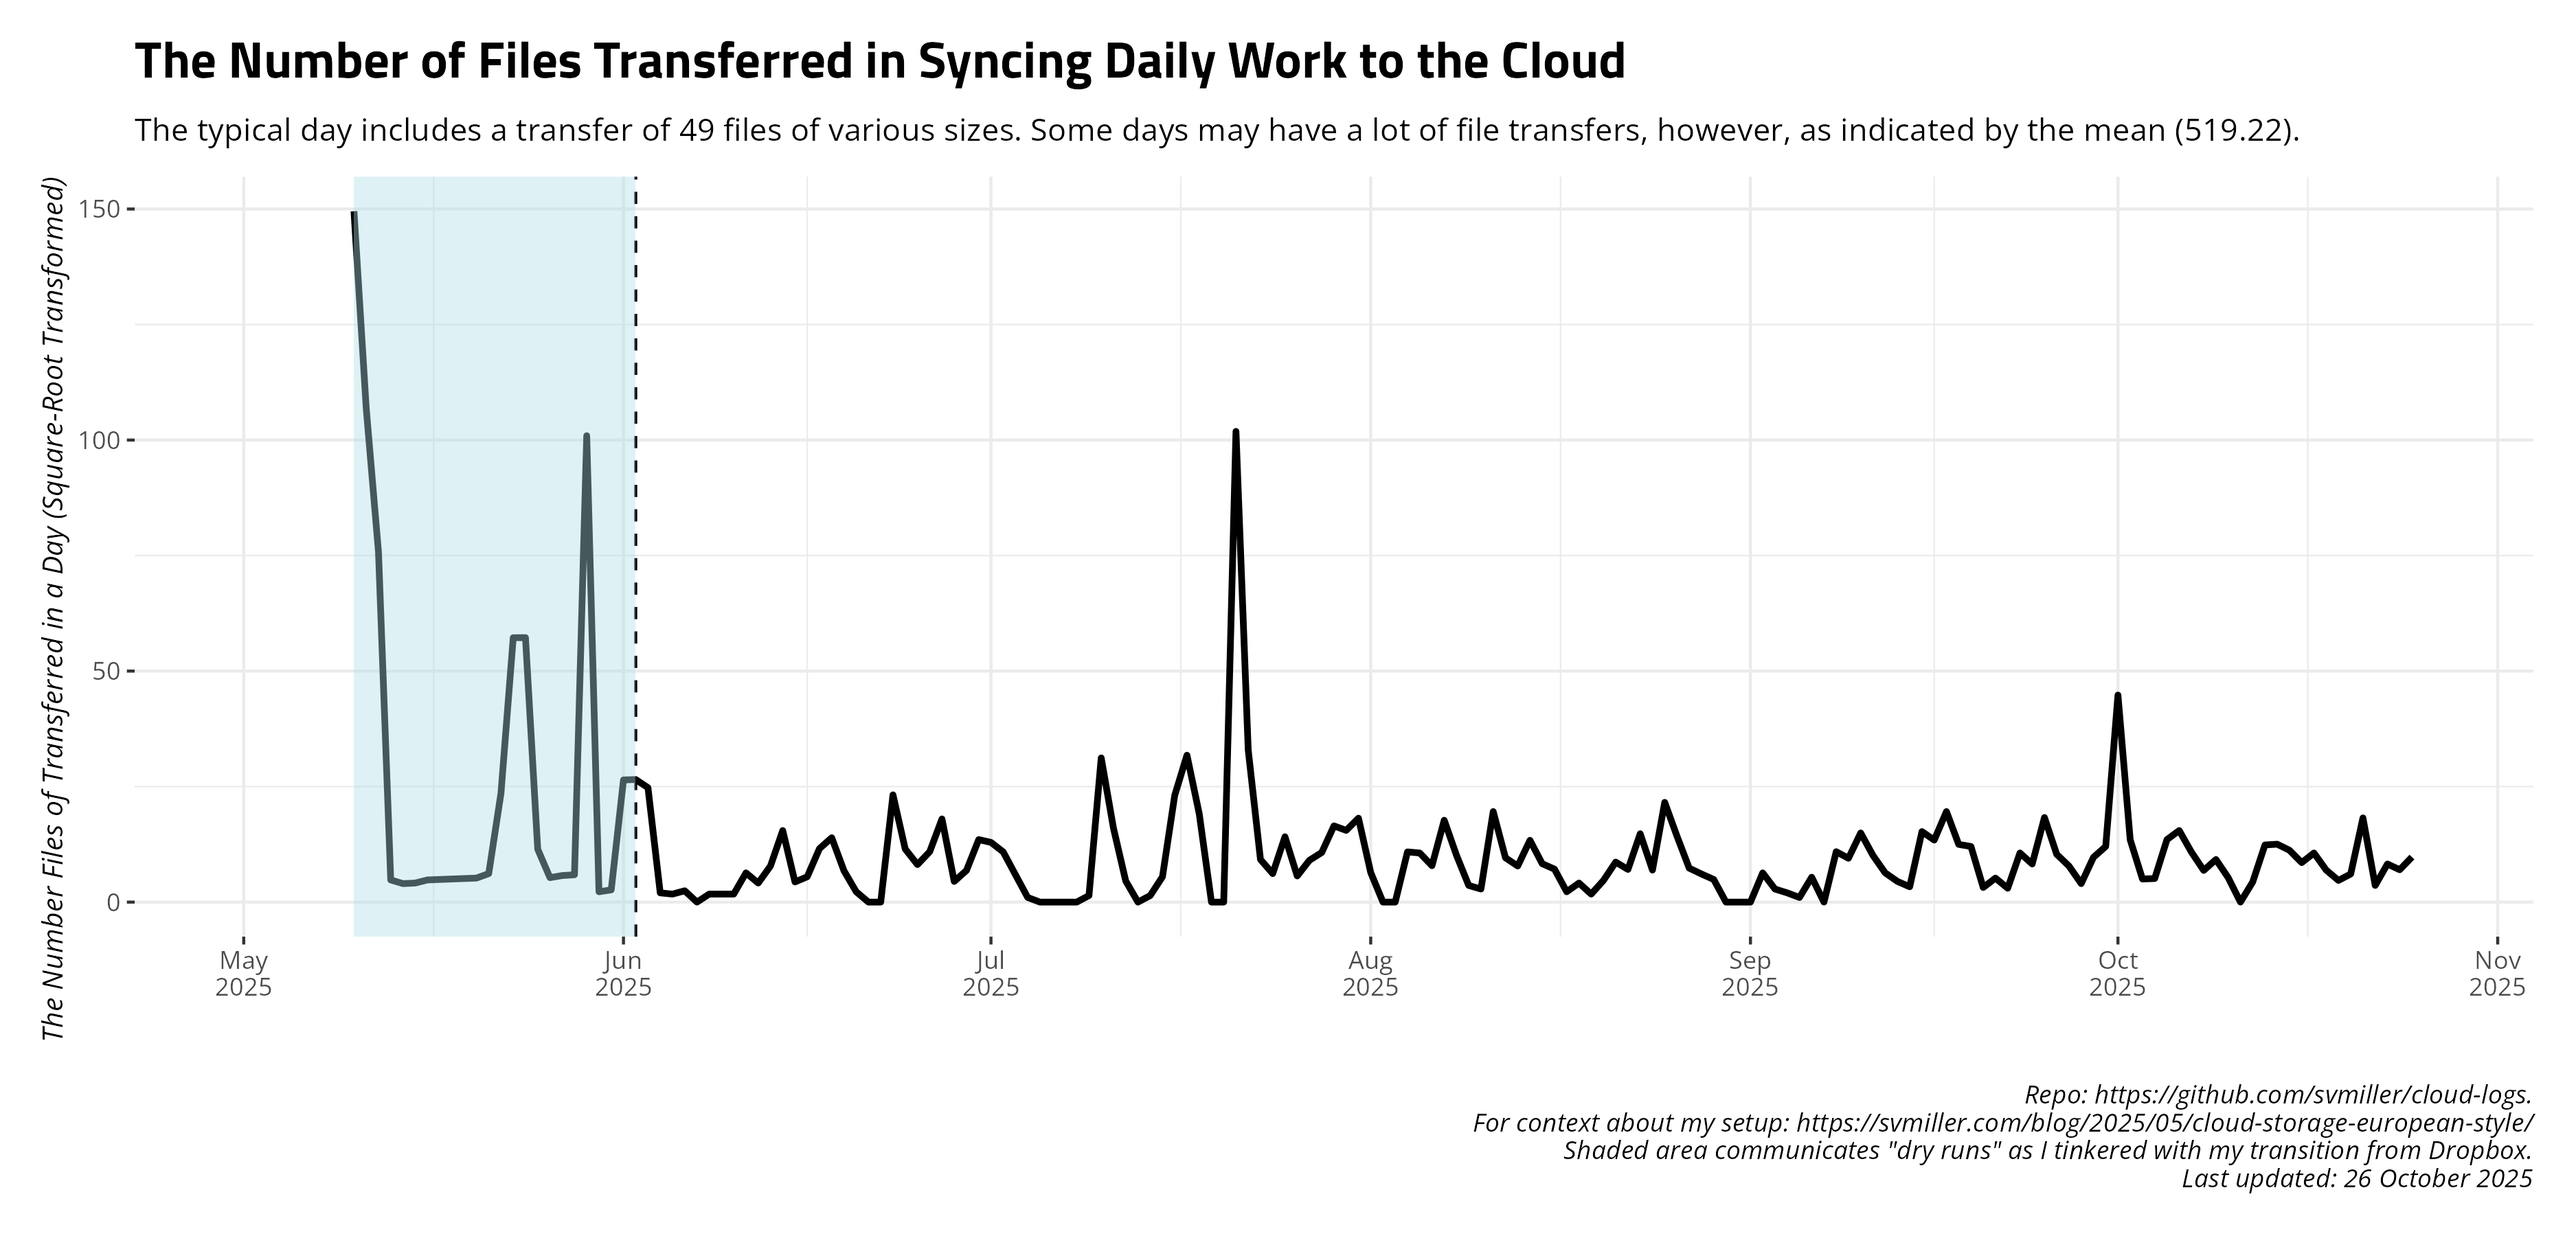
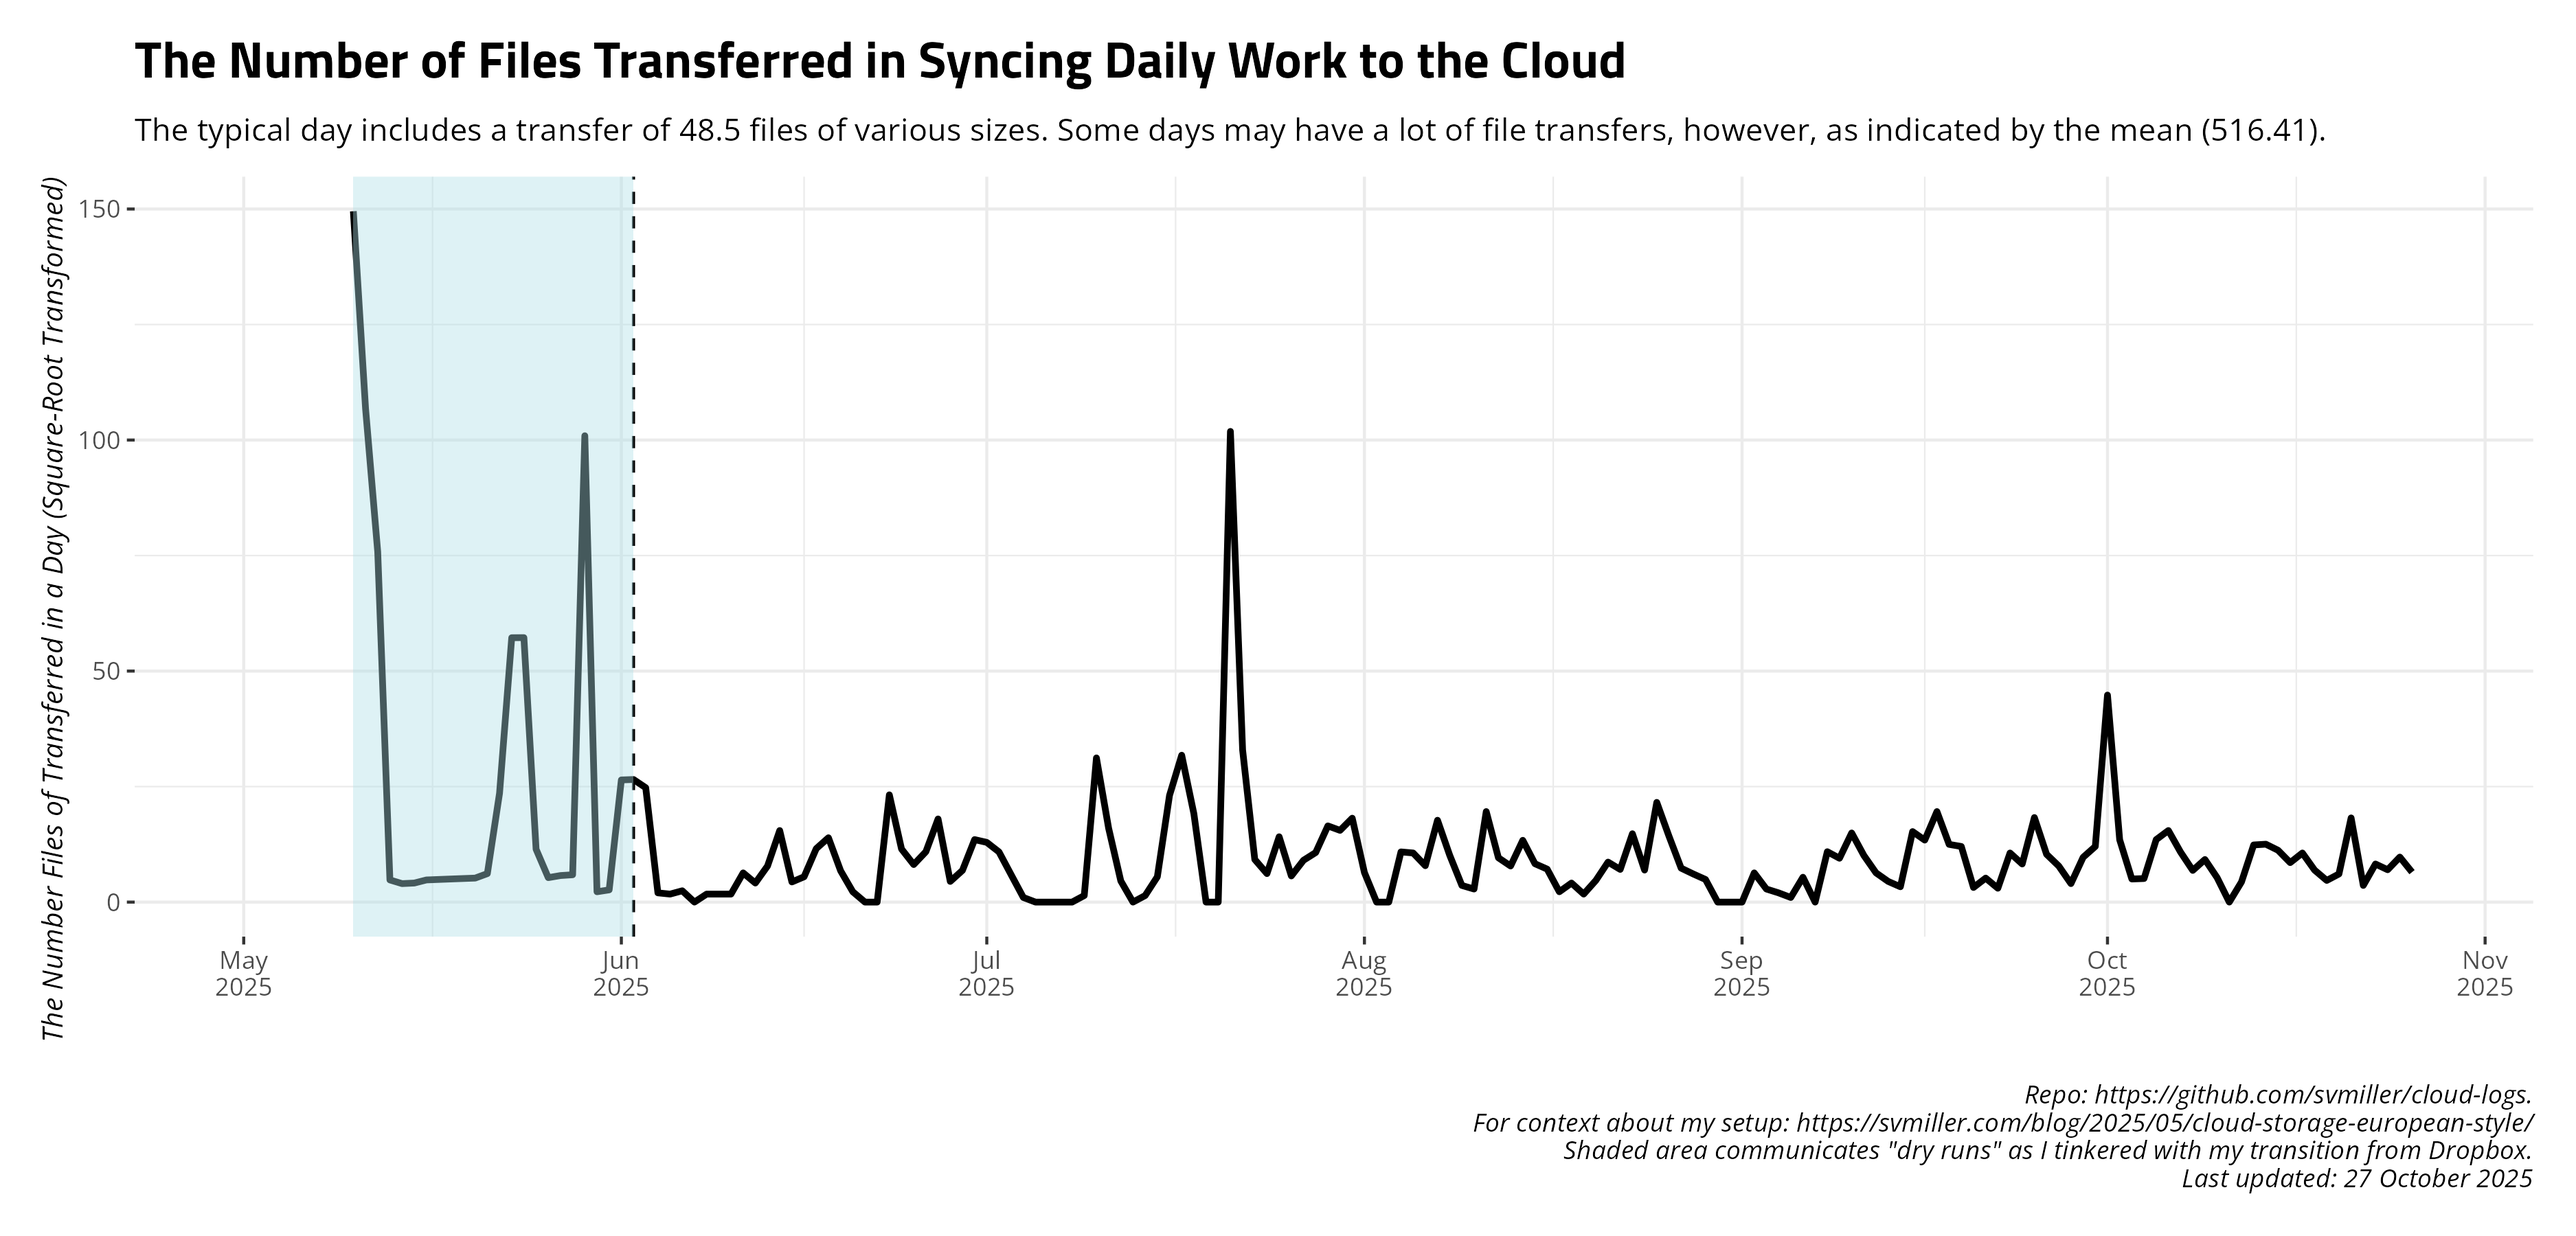
Date: 2025-10-27 09:00:15. Hi mom!

diff --git a/README.md b/README.md
@@ -27,17 +27,17 @@ and uploads to Github.
     #> # A tibble: 14 × 4
     #>    date       ftransfer stransfer   elapsed
     #>    <date>         <dbl> <chr>       <chr>  
-    #>  1 2025-10-12        19 111.027 KiB 4m24.8s
-    #>  2 2025-10-13       153 10.286 MiB  4m38.6s
-    #>  3 2025-10-14       157 6.146 MiB   4m43.3s
-    #>  4 2025-10-15       126 2.207 MiB   4m9.6s 
-    #>  5 2025-10-16        73 3.849 MiB   4m10.2s
-    #>  6 2025-10-17       113 3.125 MiB   4m52.3s
-    #>  7 2025-10-18        48 633.468 KiB 4m30.2s
-    #>  8 2025-10-19        22 67.056 KiB  4m43.2s
-    #>  9 2025-10-20        37 397.260 KiB 4m53.9s
-    #> 10 2025-10-21       332 55.643 MiB  4m15.2s
-    #> 11 2025-10-22        13 1.903 MiB   4m51.0s
-    #> 12 2025-10-23        68 2.442 MiB   4m13.7s
-    #> 13 2025-10-24        49 714.508 KiB 4m48.5s
-    #> 14 2025-10-25        95 6.259 MiB   4m40.1s
+    #>  1 2025-10-13       153 10.286 MiB  4m38.6s
+    #>  2 2025-10-14       157 6.146 MiB   4m43.3s
+    #>  3 2025-10-15       126 2.207 MiB   4m9.6s 
+    #>  4 2025-10-16        73 3.849 MiB   4m10.2s
+    #>  5 2025-10-17       113 3.125 MiB   4m52.3s
+    #>  6 2025-10-18        48 633.468 KiB 4m30.2s
+    #>  7 2025-10-19        22 67.056 KiB  4m43.2s
+    #>  8 2025-10-20        37 397.260 KiB 4m53.9s
+    #>  9 2025-10-21       332 55.643 MiB  4m15.2s
+    #> 10 2025-10-22        13 1.903 MiB   4m51.0s
+    #> 11 2025-10-23        68 2.442 MiB   4m13.7s
+    #> 12 2025-10-24        49 714.508 KiB 4m48.5s
+    #> 13 2025-10-25        95 6.259 MiB   4m40.1s
+    #> 14 2025-10-26        42 393.283 KiB 4m0.4s
